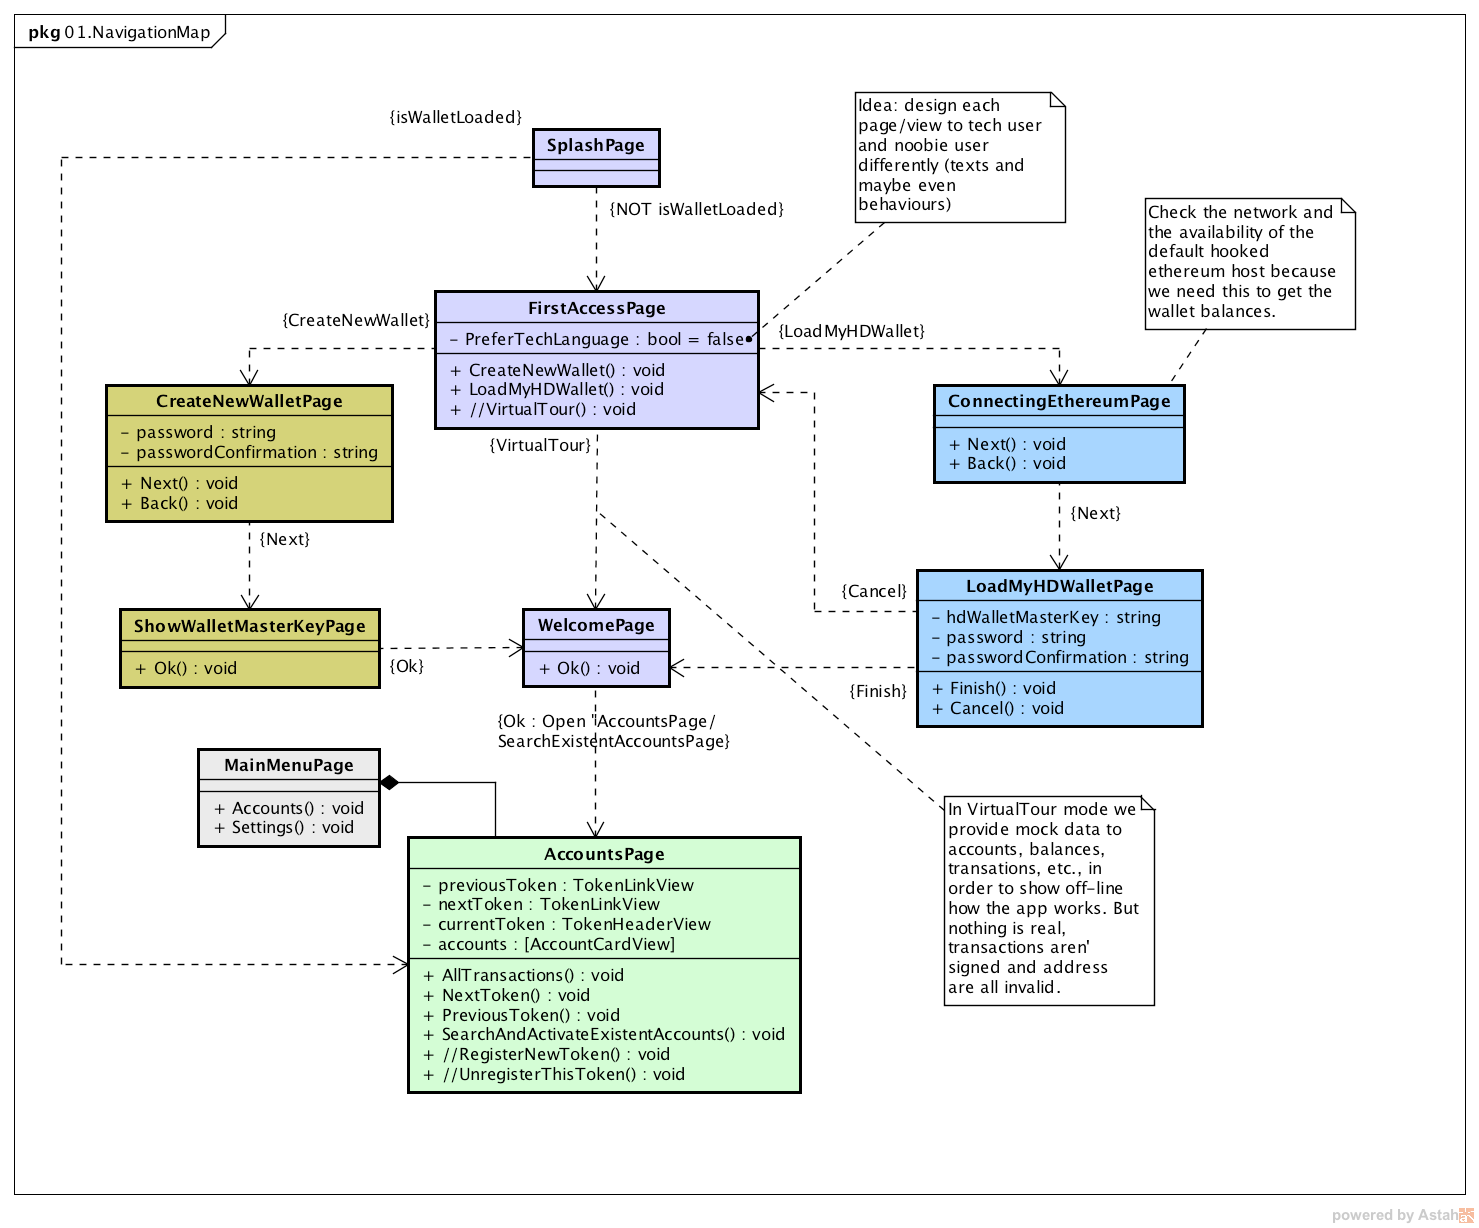
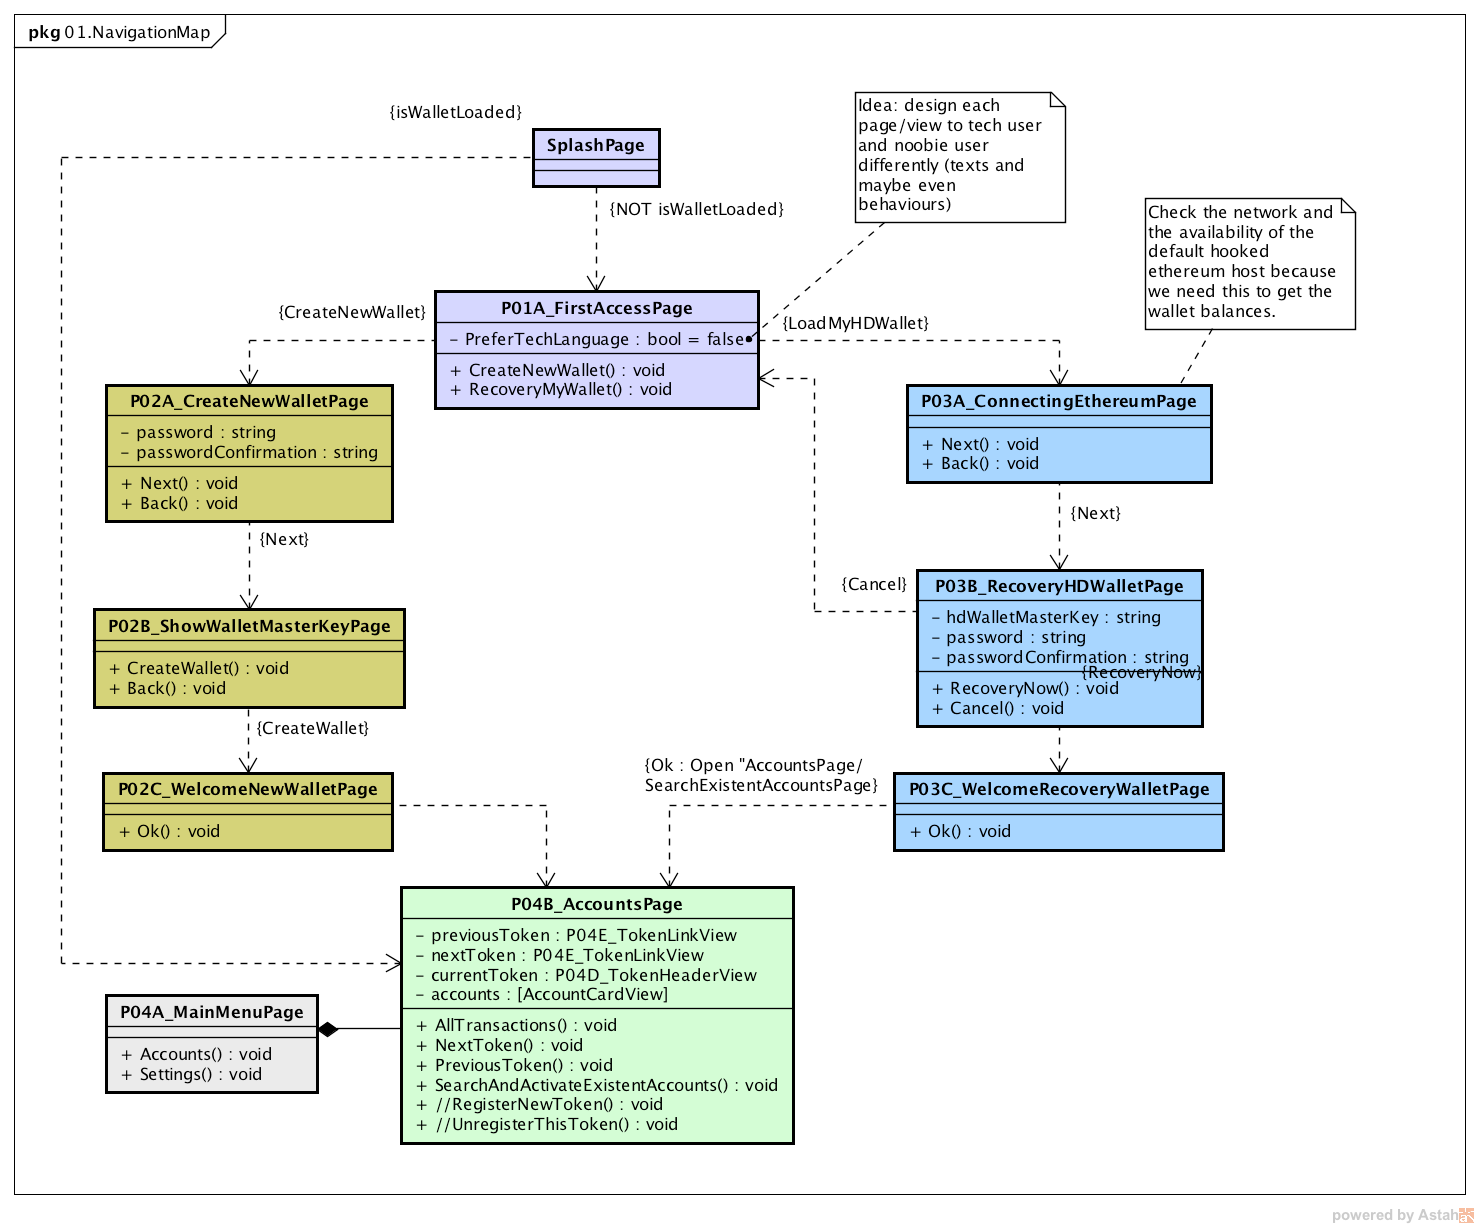
update diagrams and docs/README.md

diff --git a/docs/README.md b/docs/README.md
@@ -11,20 +11,33 @@ First of all, Etherify Lightwallet don’t send any information to any private b
 
 ## Navigational Map
 
+### First access and new/recovery wallet
 
 ![First access process](https://github.com/etherifyapps/lightwallet/blob/master/docs/img/NavMap-01.Welcome.png)
 
+### Main menu navigation
+
 ![Menu items](https://github.com/etherifyapps/lightwallet/blob/master/docs/img/NavMap-02.MenuItems.png)
+
+### Send/Receive and access all account's balance and history
 
 ![Accounts](https://github.com/etherifyapps/lightwallet/blob/master/docs/img/NavMap-03.Accounts.png)
 
 
 ## Wire-frames
 
+Work in progress. Any suggestion is welcome.
+
+### First access and create new wallet
+
 ![First access - new wallet](https://github.com/etherifyapps/lightwallet/blob/master/docs/img/wireframes1-NewWallet.jpg)
+
+### Recovery wallet
 
 ![First access - recovery wallet](https://github.com/etherifyapps/lightwallet/blob/master/docs/img/wireframes2-RecoveryWallet.jpg)
 
 ## Local (mobile) database diagram
+
+This is a initial draft only.
 
 ![local database diagram](https://github.com/etherifyapps/lightwallet/blob/master/docs/img/localdatabase.png)
